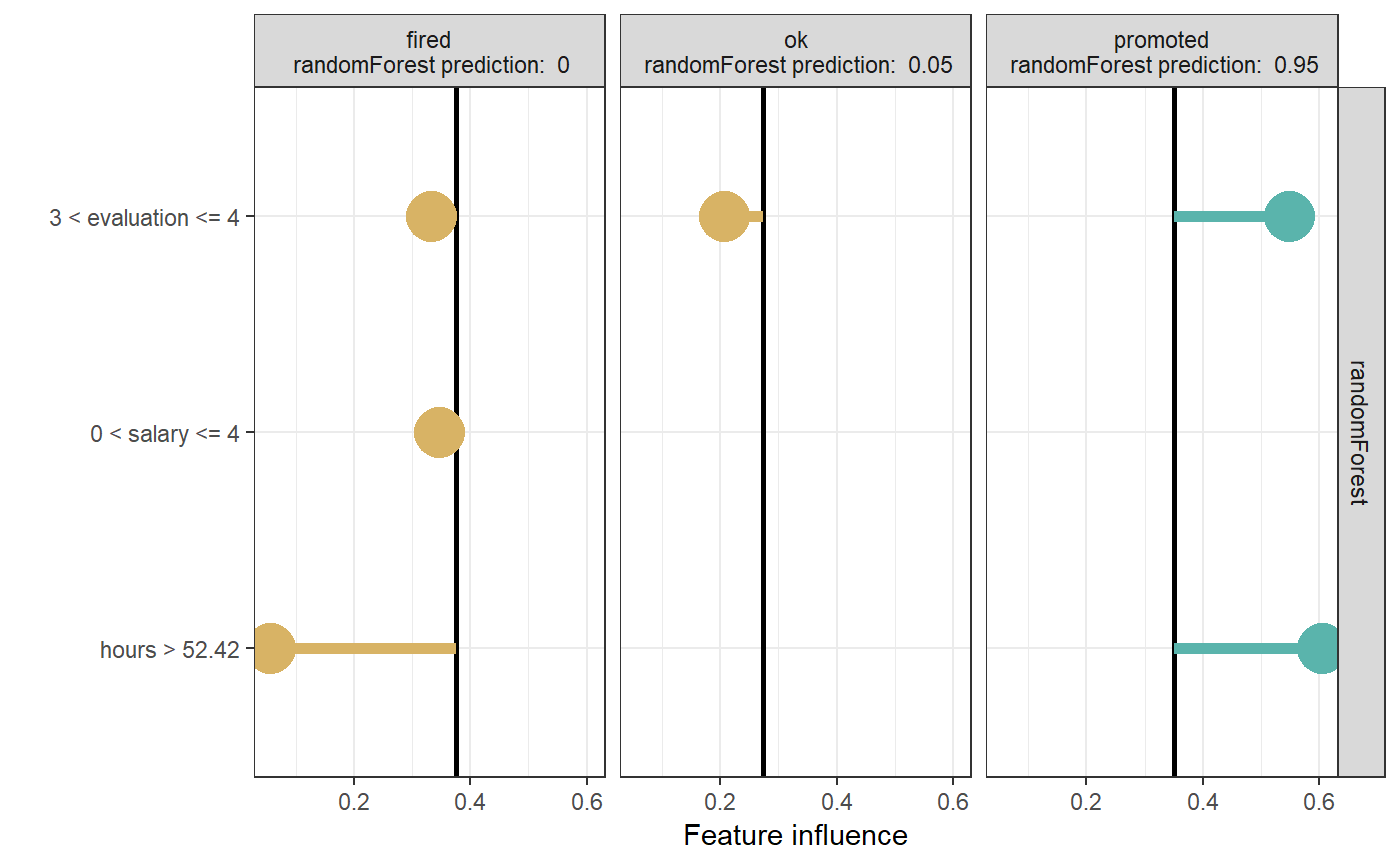
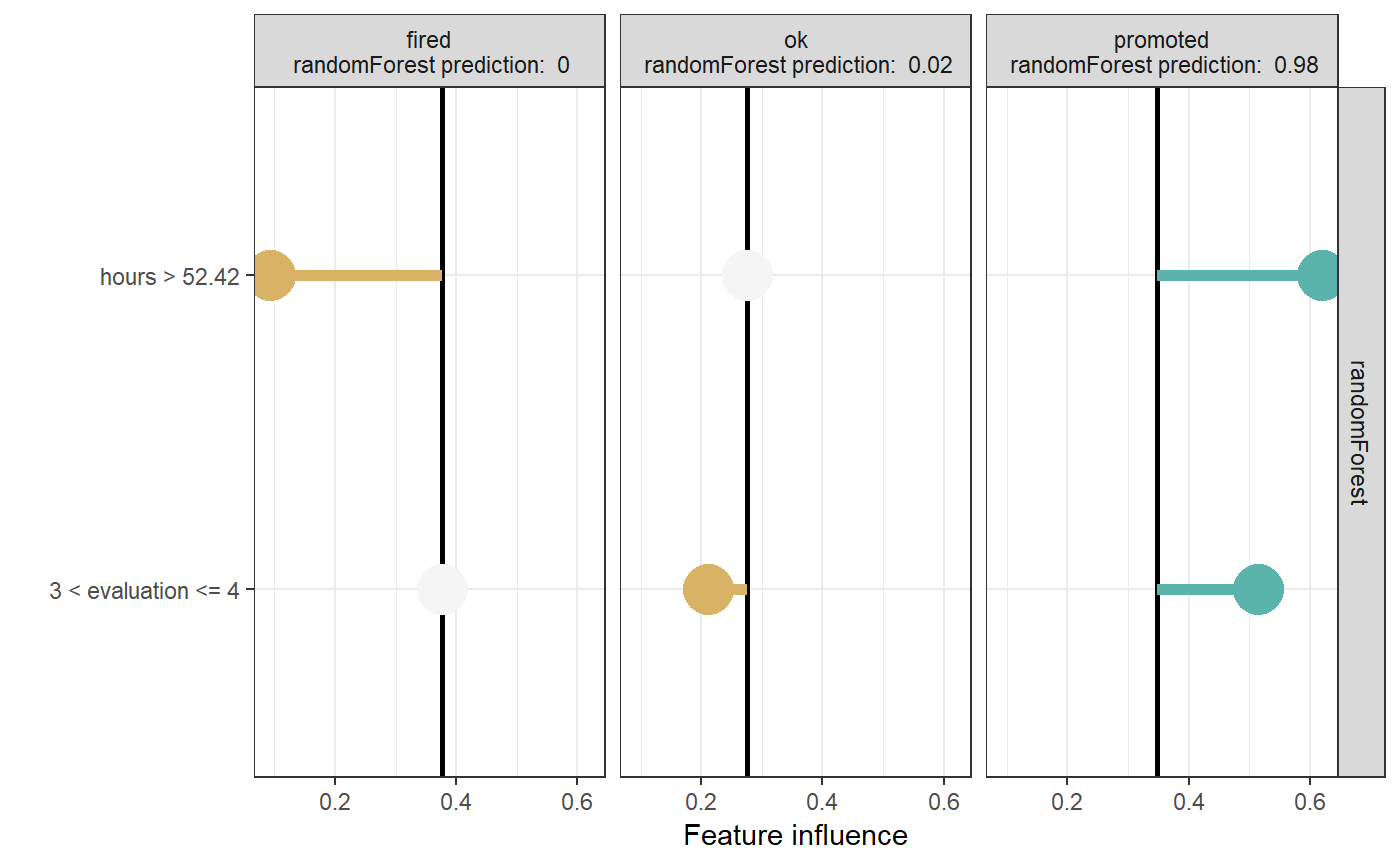
improves plots

diff --git a/docs/articles/regression_example.html b/docs/articles/regression_example.html
@@ -95,20 +95,25 @@
 <span class="kw">library</span>(randomForest)
 <span class="kw">data</span>(<span class="st">'apartments'</span>)
 <span class="kw">data</span>(<span class="st">'apartmentsTest'</span>)
-mrf &lt;-<span class="st"> </span><span class="kw">randomForest</span>(m2.price <span class="op">~</span>., <span class="dt">data =</span> apartments, <span class="dt">ntree =</span> <span class="dv">50</span>)</code></pre></div>
+mrf &lt;-<span class="st"> </span><span class="kw">randomForest</span>(m2.price <span class="op">~</span>., <span class="dt">data =</span> apartments, <span class="dt">ntree =</span> <span class="dv">50</span>)
+mlm &lt;-<span class="st"> </span><span class="kw">lm</span>(m2.price <span class="op">~</span>., <span class="dt">data =</span> apartments)</code></pre></div>
 <p>First, we need to create an explainer object, using the <code>explain</code> function. We will explain the prediction for fifth observation in the test dataset.</p>
 <div class="sourceCode"><pre class="sourceCode r"><code class="sourceCode r">explainer &lt;-<span class="st"> </span><span class="kw">explain</span>(<span class="dt">model =</span> mrf,
                      <span class="dt">data =</span> apartments_test[, <span class="op">-</span><span class="dv">1</span>])
+explainer2 &lt;-<span class="st"> </span><span class="kw">explain</span>(<span class="dt">model =</span> mlm, 
+                      <span class="dt">data =</span> apartments_test[, <span class="op">-</span><span class="dv">1</span>])
 new_observation &lt;-<span class="st"> </span>apartments_test[<span class="dv">5</span>, <span class="op">-</span><span class="dv">1</span>]
 new_observation
 <span class="co">#&gt;      construction.year surface floor no.rooms district</span>
 <span class="co">#&gt; 1005              1978     102     4        4   Bemowo</span></code></pre></div>
 <p>Local explanation is created via <code>individual_surrogate_model</code> function, which takes the explainer, observation of interest and number of new observations to simulate as argument. Optionally, we can set seed using the <code>seed</code> parameter for reproducibility.</p>
 <div class="sourceCode"><pre class="sourceCode r"><code class="sourceCode r">model_lok &lt;-<span class="st"> </span><span class="kw"><a href="../reference/individual_surrogate_model.html">individual_surrogate_model</a></span>(explainer, new_observation,
-                                        <span class="dt">size =</span> <span class="dv">500</span>, <span class="dt">seed =</span> <span class="ot">NULL</span>)</code></pre></div>
+                                        <span class="dt">size =</span> <span class="dv">500</span>, <span class="dt">seed =</span> <span class="ot">NULL</span>)
+model_lok2 &lt;-<span class="st"> </span><span class="kw"><a href="../reference/individual_surrogate_model.html">individual_surrogate_model</a></span>(explainer2, new_observation,
+                                         <span class="dt">size =</span> <span class="dv">500</span>, <span class="dt">seed =</span> <span class="ot">NULL</span>)</code></pre></div>
 <p>First, local interpretable features are created. Numerical features are discretized by using decision tree to model relationship between the feature and the corresponding Ceteris Paribus profile. Categorical features are also discretized by merging levels using the marginal relationship between the feature and the model response. Then, new dataset is simulated by switching a random number of interpretable inputs in the explained instance. This procedure mimics “graying out” areas (superpixels) in the original LIME method. LASSO regression model is fitted to the model response for these new observations, which makes the final explanations sparse and thus readable.</p>
 <p>The explanation can be plotted using generic <code>plot</code> function. The plot shows interpretable features and weights associated with them, starting at the model intercept. Negative weights are associated with features that decrease the apartment price, while positive weights increase it.</p>
-<div class="sourceCode"><pre class="sourceCode r"><code class="sourceCode r"><span class="kw">plot</span>(model_lok)</code></pre></div>
+<div class="sourceCode"><pre class="sourceCode r"><code class="sourceCode r"><span class="kw">plot</span>(model_lok, model_lok2)</code></pre></div>
 <p><img src="regression_example_files/figure-html/plot-1.png" width="700"></p>
 <p>We can see that for this observation, the predicted price is negatively influeced mostly by the district and construction year.</p>
   </div>

diff --git a/docs/reference/plot.local_surrogate_explainer.html b/docs/reference/plot.local_surrogate_explainer.html
@@ -107,7 +107,7 @@
     
 
     <pre class="usage"><span class='co'># S3 method for local_surrogate_explainer</span>
-<span class='fu'>plot</span>(<span class='no'>x</span>, <span class='no'>...</span>)</pre>
+<span class='fu'>plot</span>(<span class='no'>x</span>, <span class='no'>...</span>, <span class='kw'>geom</span> <span class='kw'>=</span> <span class='st'>"point"</span>)</pre>
     
     <h2 class="hasAnchor" id="arguments"><a class="anchor" href="#arguments"></a> Arguments</h2>
     <table class="ref-arguments">
@@ -120,6 +120,11 @@
       <th>...</th>
       <td><p>other objects of class local_surrogate_explainer.
 If provided, models will be plotted in rows, response levels in columns.</p></td>
+    </tr>
+    <tr>
+      <th>geom</th>
+      <td><p>If "point", lines with points at the end will be plotted,
+if "bar", bars will be plotted.</p></td>
     </tr>
     </table>
     

diff --git a/docs/articles/classification_example.html b/docs/articles/classification_example.html
@@ -108,6 +108,8 @@ new_observation
                                         <span class="dt">size =</span> <span class="dv">500</span>, <span class="dt">seed =</span> <span class="dv">17</span>)
 <span class="kw">plot</span>(model_lok)</code></pre></div>
 <p><img src="classification_example_files/figure-html/explanation-1.png" width="700"></p>
+<div class="sourceCode"><pre class="sourceCode r"><code class="sourceCode r"><span class="kw">plot</span>(model_lok, <span class="dt">geom =</span> <span class="st">"bar"</span>)</code></pre></div>
+<p><img src="classification_example_files/figure-html/explanation-2.png" width="700"></p>
 <p>The plot shows how predictions for different classes are influenced by different features. For the actually predicted class, hours and evaluation have a strong positive effect.</p>
   </div>
 

diff --git a/docs/news/index.html b/docs/news/index.html
@@ -104,6 +104,13 @@
     </div>
 
     <div class="contents">
+    <div id="localmodel-0-3-1" class="section level1">
+<h1 class="page-header">
+<a href="#localmodel-0-3-1" class="anchor"></a>localModel 0.3.1</h1>
+<ul>
+<li>Improvements to plots</li>
+</ul>
+</div>
     <div id="localmodel-0-3-0" class="section level1">
 <h1 class="page-header">
 <a href="#localmodel-0-3-0" class="anchor"></a>localModel 0.3.0</h1>
@@ -227,6 +234,7 @@
     <div id="tocnav">
       <h2>Contents</h2>
       <ul class="nav nav-pills nav-stacked contents-mi2">
+        <li><a href="#localmodel-0-3-1">0.3.1</a></li>
         <li><a href="#localmodel-0-3-0">0.3.0</a></li>
         <li><a href="#localmodel-0-2-9">0.2.9</a></li>
         <li><a href="#localmodel-0-2-8">0.2.8</a></li>

diff --git a/docs/reference/index.html b/docs/reference/index.html
@@ -101,7 +101,7 @@
     <div class="page-header">
       <h1>
         Reference
-        <small>version&nbsp;0.3.0</small>
+        <small>version&nbsp;0.3.1</small>
       </h1>
     </div>
 

diff --git a/NEWS.md b/NEWS.md
@@ -1,3 +1,7 @@
+# localModel 0.3.1
+
+* Improvements to plots 
+
 # localModel 0.3.0
 
 * Multi-model plot option added.
